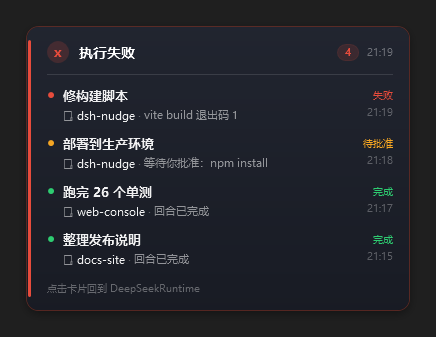
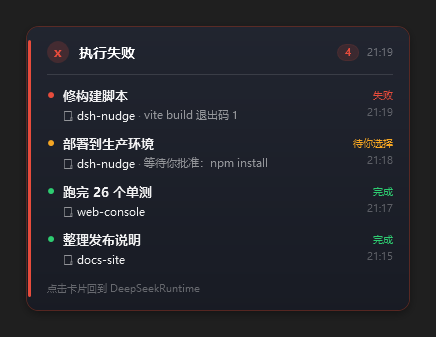
fix: 长任务名截到 42 字带省略号、待选择卡片停 20 秒起、清单里去掉重复的完成明细

Changed region(s): [[0.2982, 0.7418, 0.4472, 0.8012], [0.3578, 0.5935, 0.4771, 0.6528], [0.805, 0.4154, 0.8945, 0.4451]]

diff --git a/lib/index.js b/lib/index.js
@@ -30,6 +30,14 @@ export const name = "nudge";
  * @param {number} [limit] 最多保留的字符数
  * @returns {string} 压缩后的一行
  */
+/** 标题行的上限：260 宽（窗口最小宽度）下三行装得下 42 个字，再长就带省略号截断。 */
+const TITLE_LIMIT = 42;
+
+function clipTitle(value) {
+	const text = condenseText(value, TITLE_LIMIT);
+	return text;
+}
+
 function condenseText(value, limit = 140) {
 	const text = String(value ?? "").replace(/\s+/gu, " ").trim();
 	if (text === "") return "";
@@ -59,6 +67,12 @@ function tintOf(kind) {
  */
 const VERDICT_LABEL = { failed: "失败", needs_choice: "待你选择", completed: "完成" };
 
+/** 这类明细没有信息量（成功本来就等于回合结束），别再占一行。 */
+function isRedundantDetail(detail) {
+	const text = String(detail ?? "").trim();
+	return text === "" || text === "回合已完成";
+}
+
 /**
  * 一屏之内先回答"哪个任务/项目"，再回答"成没成、为什么"。
  * 所以 headline 永远是任务名（缺失才退到错误摘要），
@@ -67,7 +81,7 @@ const VERDICT_LABEL = { failed: "失败", needs_choice: "待你选择", complete
 function focusOf(item) {
 	const kind = item.kind;
 	const detail = condenseText(item.detail);
-	const title = condenseText(item.title);
+	const title = clipTitle(item.title);
 	const project = condenseText(item.project);
 	let headline = title;
 	if (headline === "") headline = detail === "" ? (project === "" ? "未命名会话" : project) : detail;
@@ -115,7 +129,7 @@ const KIND_META = {
 
 /** 严重度：一张卡片里冲突时，标题取最高的一个。 */
 const SEVERITY = { completed: 0, needs_choice: 1, failed: 2 };
-const ROW_KIND_LABEL = { completed: "完成", needs_choice: "待批准", failed: "失败" };
+const ROW_KIND_LABEL = { completed: "完成", needs_choice: "待你选择", failed: "失败" };
 
 /**
  * 合并并校验配置；非法值抛错（cordis 会把它变成启动期 ValidationError）。
@@ -313,7 +327,9 @@ export class PopupRunner {
 			items: single === null
 				? ordered.slice(0, limit).map((item) => ({
 						...item,
-						detail: condenseText(item.detail),
+						title: clipTitle(item.title),
+						// "回合已完成" 这种话在行里是废字：右侧已经写了「完成」。
+						detail: isRedundantDetail(item.detail) ? "" : condenseText(item.detail),
 						rowProject: item.project ?? '',
 						rowKind: ROW_KIND_LABEL[item.kind] ?? ""
 					}))
@@ -348,6 +364,17 @@ export class PopupRunner {
 	 * @param {object} payload 卡片数据
 	 * @returns {boolean} 是否成功投递
 	 */
+	/**
+	 * 一批提醒该停留多久：条目越多越久；「需要你选择」是要你动手的，给三倍且不少于 20 秒。
+	 * @param {object} payload 卡片数据
+	 * @returns {number} 秒
+	 */
+	stayFor(payload) {
+		const rows = Array.isArray(payload?.items) ? payload.items.length : 0;
+		const base = this.config.staySeconds + 2 * Math.max(0, rows - 1);
+		return Math.round(payload?.kind === "needs_choice" ? Math.max(20, base * 3) : base);
+	}
+
 	spawnOnce(payload) {
 		if (this.closed) return false;
 		const previous = this.child;
@@ -356,7 +383,7 @@ export class PopupRunner {
 		const b64 = Buffer.from(JSON.stringify(payload), "utf8").toString("base64");
 		// 条目越多停留越久，避免没看完就消失。
 		const rows = Array.isArray(payload.items) ? payload.items.length : 0;
-		const staySeconds = Math.round(this.config.staySeconds + 2 * Math.max(0, rows - 1));
+		const staySeconds = this.stayFor(payload);
 		const args = [
 			"-NoLogo",
 			"-NoProfile",

diff --git a/VERIFY.md b/VERIFY.md
@@ -60,6 +60,8 @@ ALL PASS (23 checks)
 - 不打扰：卡片是 `WS_EX_NOACTIVATE | WS_EX_TOOLWINDOW` 窗口，永不被激活、不进 Alt+Tab；纯点击不进入系统拖动循环（位移 >4px 才算拖动）；弹出后 320ms 内的点击被忽略；移进卡片会重置停留计时。
 - 定位：`MonitorFromWindow`（DSH 主窗口）→ `MonitorFromPoint`（光标）→ `SystemParameters.WorkArea` 三级退化，取 `rcWork` 右下角内缩 `margin`；实测本机 2560×1440、任务栏 48px、卡片 412×154 → `left=2132`、`top=1222`（=1392−154−16），与旧主屏逻辑在同一屏上结果一致。
 - 右键只关闭：不调用 `Focus-Ds`、不写剪贴板，也不激活窗口（`WS_EX_NOACTIVATE`）。
+- 标题上限：任务名按 `TITLE_LIMIT = 42` 截断（带 `…`），标题区 `MaxHeight = 63`（三行）。实测 42 字标题在 384 宽排两行、在最小 260 宽排三行，文字最右 281 < 内沿 285，三行都能完整显示。
+- 停留时长：`stayFor()` 里条目越多越久（+2 秒/条），「需要你选择」再乘三且不少于 20 秒（实测 24 秒）；其余仍是 8 秒起。
 - 快照校验：`screenshots/multi.png` 436×337（4 条 / 3 个项目）、`screenshots/single.png` 436×234（失败单条）、`screenshots/single-choice.png` 436×234（待批准单条）、`screenshots/single-done.png` 436×205（完成单条）。像素实测的纵向文字带：头部 12px → 任务名 16px → 状态 12px → 原因 9-11px → 项目 10-11px，最大字号确实落在任务名上。
 
 ## 3. 卡片图内容自证（纯像素，不需要屏幕）

diff --git a/CHANGELOG.md b/CHANGELOG.md
@@ -24,6 +24,13 @@
 - 卡片出现在 DSH 窗口所在的那块屏幕（退化顺序：DSH 窗口 → 光标所在屏 → 主屏）。
 - 去掉滚动条：卡片按内容长高，最小高度随内容重算。
 
+**细节**
+
+- 任务名超过 42 字按整字截断并补 `…`；标题区最多三行，最窄 260 宽也装得下，不会被 WPF 在半行处硬切。
+- 「需要你选择」的卡片停留时间是普通卡片的三倍、最少 20 秒——这类提醒要你动手，8 秒瞥一眼就没了等于没提醒。
+- 多条清单里成功的条目不再写「回合已完成」这种废话，第二行只留项目名。
+- 清单里的状态词统一成「完成 / 待你选择 / 失败」，与单条卡片一致（原来是「待批准」）。
+
 **其它**
 
 - 一次最多列 8 条（`maxItems`）；点击复制的内容上限 20 条。
